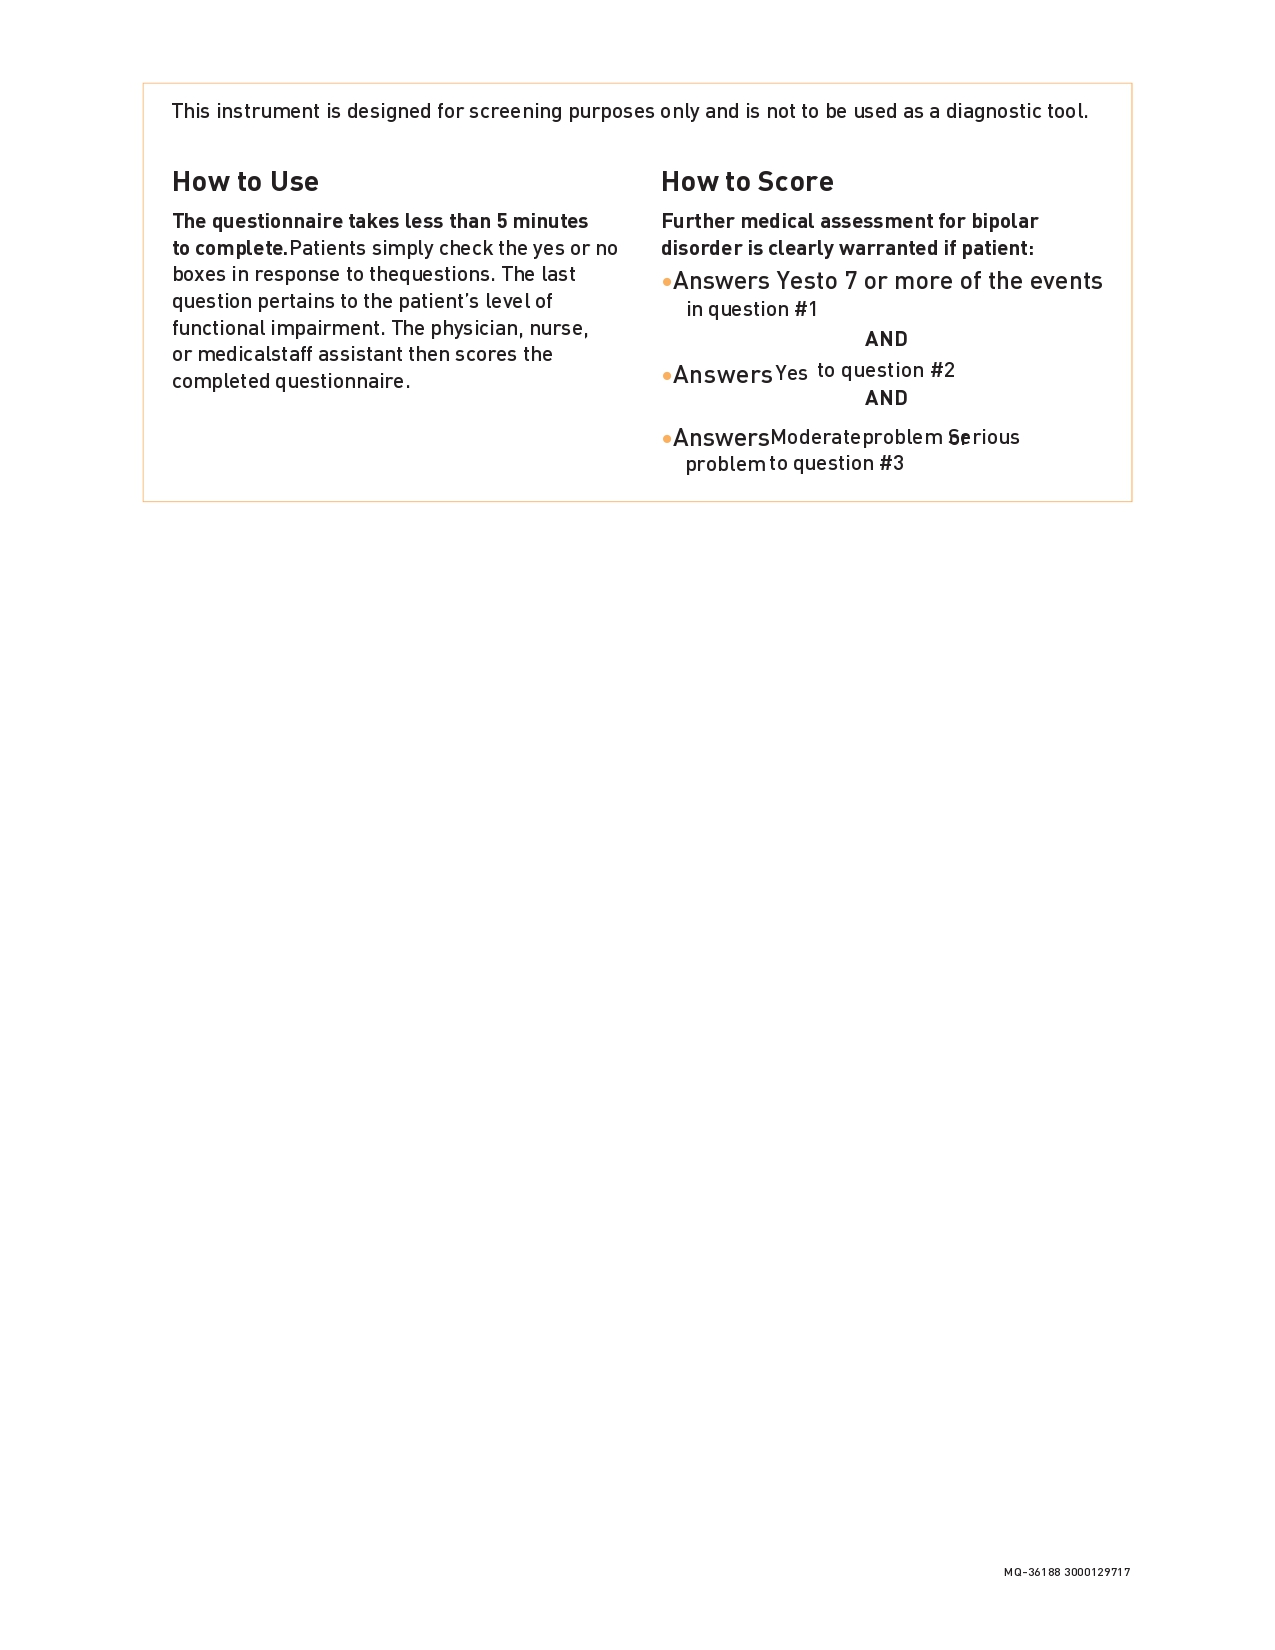
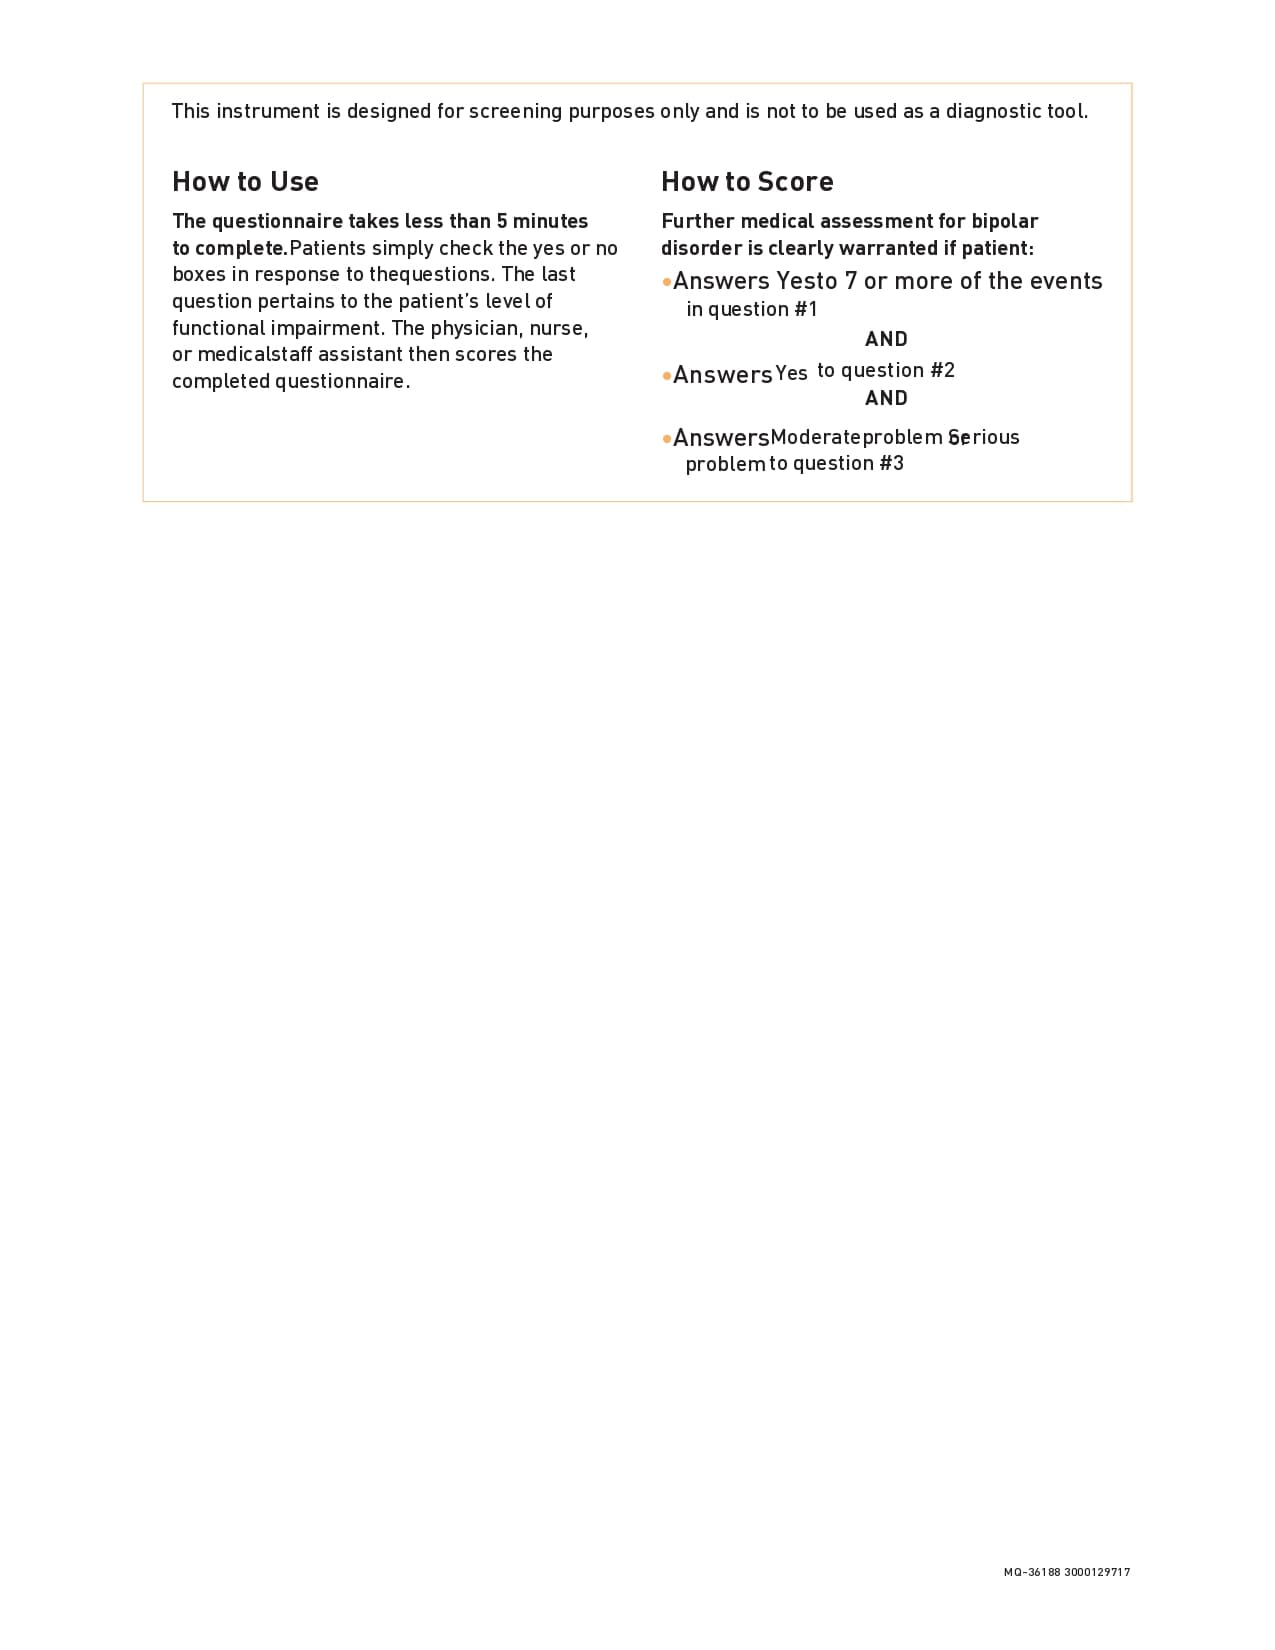
compress Pdf size

diff --git a/app/health-history/HealthHistoryImageMapper.js b/app/health-history/HealthHistoryImageMapper.js
@@ -368,8 +368,8 @@ export default function HealthHistoryImageMapper({ answers, silentMode = false, 
 
     const bg1 = new window.Image();
     const bg2 = new window.Image();
-    bg1.src = "/patient-health-history-page-1.png";
-    bg2.src = "/patient-health-history-page-2.png";
+    bg1.src = "/patient-health-history-page-1.jpg";
+    bg2.src = "/patient-health-history-page-2.jpg";
 
     let loaded = 0;
     const onBothLoaded = () => {
@@ -399,26 +399,17 @@ export default function HealthHistoryImageMapper({ answers, silentMode = false, 
 
     bg1.onload = onBothLoaded;
     bg2.onload = onBothLoaded;
-    bg1.onerror = () => { ctx1.fillStyle="#fff"; ctx1.fillRect(0,0,P1W,P1H); ctx1.fillStyle="#374151"; ctx1.font="bold 28px Arial"; ctx1.fillText("⚠ Place patient-health-history-page-1.png in /public",40,80); drawPage1(ctx1,answers); setStatus("ready"); };
-    bg2.onerror = () => { ctx2.fillStyle="#fff"; ctx2.fillRect(0,0,P2W,P2H); ctx2.fillStyle="#374151"; ctx2.font="bold 28px Arial"; ctx2.fillText("⚠ Place patient-health-history-page-2.png in /public",40,80); drawPage2(ctx2,answers); setStatus("ready"); };
+    bg1.onerror = () => { ctx1.fillStyle="#fff"; ctx1.fillRect(0,0,P1W,P1H); ctx1.fillStyle="#374151"; ctx1.font="bold 28px Arial"; ctx1.fillText("⚠ Place patient-health-history-page-1.jpg in /public",40,80); drawPage1(ctx1,answers); setStatus("ready"); };
+    bg2.onerror = () => { ctx2.fillStyle="#fff"; ctx2.fillRect(0,0,P2W,P2H); ctx2.fillStyle="#374151"; ctx2.font="bold 28px Arial"; ctx2.fillText("⚠ Place patient-health-history-page-2.jpg in /public",40,80); drawPage2(ctx2,answers); setStatus("ready"); };
   }, [answers]);
 
   const refCallback1 = useCallback(node => { if (node) { canvas1Ref.current = node; drawBothPages(); } }, [drawBothPages]);
   const refCallback2 = useCallback(node => { if (node) { canvas2Ref.current = node; } }, []);
 
   // ── PDF ───────────────────────────────────────────────────────────────────
-  const loadJsPDF = () => new Promise((resolve, reject) => {
-    if (window.jspdf) { resolve(window.jspdf.jsPDF); return; }
-    const s = document.createElement("script");
-    s.src = "https://cdnjs.cloudflare.com/ajax/libs/jspdf/2.5.1/jspdf.umd.min.js";
-    s.onload = () => resolve(window.jspdf.jsPDF);
-    s.onerror = () => reject(new Error("Failed to load jsPDF"));
-    document.head.appendChild(s);
-  });
-
   const buildPdf = async () => {
-    const JsPDF = await loadJsPDF();
-    const pdf   = new JsPDF({ orientation: "portrait", unit: "mm", format: "a4" });
+    const { jsPDF } = await import("jspdf");
+    const pdf   = new jsPDF({ orientation: "portrait", unit: "mm", format: "a4" });
     const img1  = canvas1Ref.current?.toDataURL("image/jpeg", 1.0);
     const img2  = canvas2Ref.current?.toDataURL("image/jpeg", 1.0);
     if (img1) pdf.addImage(img1, "JPEG", 0, 0, 210, 297);

diff --git a/app/phq9/PHQ9ImageMapper.js b/app/phq9/PHQ9ImageMapper.js
@@ -2,7 +2,7 @@
 
 // ─────────────────────────────────────────────────────────────────────────────
 // PHQ9ImageMapper.js
-// Background: Patient-Health-Questionnaire-PHQ-9.png (assumed ~1700×2244)
+// Background: Patient-Health-Questionnaire-PHQ-9.jpg (assumed ~1700×2244)
 //
 // Q1–Q9: 4 options each [Not at all, Several days, More than half, Nearly every day]
 // Q coords provided — draws checkmark only (no border)
@@ -25,7 +25,7 @@ import { QUESTIONS, OPTIONS, DIFFICULTY_OPTIONS } from "./phq9Steps";
 
 const CANVAS_W = 1809;
 const CANVAS_H = 2352;
-const BG_SRC   = "/Patient-Health-Questionnaire-PHQ-9.png";
+const BG_SRC   = "/Patient-Health-Questionnaire-PHQ-9.jpg";
 const BRAND    = "#7d4f50";
 
 // Q1–Q9 option x positions: [Not at all, Several days, More than half, Nearly every day]

diff --git a/app/gad7/GAD7ImageMapper.js b/app/gad7/GAD7ImageMapper.js
@@ -3,7 +3,7 @@
 // ─────────────────────────────────────────────────────────────────────────────
 // GAD7ImageMapper.js
 //
-// Renders answers onto /public/gad-7-anxiety.png background, exports PDF.
+// Renders answers onto /public/gad-7-anxiety.jpg background, exports PDF.
 // Background: 1581 × 2244 px (assumed — adjust if different)
 //
 // Coordinate map (provided):
@@ -20,7 +20,7 @@ import { QUESTIONS, OPTIONS, DIFFICULTY_OPTIONS } from "./gad7Steps";
 
 const CANVAS_W = 1581;
 const CANVAS_H = 2244;
-const BG_SRC   = "/gad-7-anxiety.png";
+const BG_SRC   = "/gad-7-anxiety.jpg";
 const FONT     = "500 28px Arial, sans-serif";
 const BRAND    = "#7d4f50";
 const CHECK_SZ = 26; // checkbox square size

diff --git a/app/intake/IntakeImageMapper.js b/app/intake/IntakeImageMapper.js
@@ -101,7 +101,7 @@ export default function IntakeImageMapper({ answers, silentMode = false, onPdfRe
     ctx.scale(SCALE, SCALE);
 
     const bg = new window.Image();
-    bg.src = "/intake-bg.png";
+    bg.src = "/intake-bg.jpg";
 
     bg.onload = () => {
       ctx.drawImage(bg, 0, 0, CANVAS_W, CANVAS_H);
@@ -183,7 +183,7 @@ export default function IntakeImageMapper({ answers, silentMode = false, onPdfRe
       ctx.fillText("New Patient Intake Form", 40, 60);
       ctx.fillStyle = "#ef4444";
       ctx.font = "11px Arial";
-      ctx.fillText("⚠ Place intake-bg.png in /public to see the form background.", 40, 90);
+      ctx.fillText("⚠ Place intake-bg.jpg in /public to see the form background.", 40, 90);
       ctx.fillStyle = "#374151";
       ctx.font = "10px Arial";
       let y = 130;

diff --git a/app/asrs/ASRSImageMapper.js b/app/asrs/ASRSImageMapper.js
@@ -110,8 +110,8 @@ export default function ASRSImageMapper({ answers, silentMode, onPdfReady }) {
 
     bg1.onload = tryBuild;
     bg2.onload = tryBuild;
-    bg1.src = "/Adult-ADHD-Self-Report-Scale-Page-1.png";
-    bg2.src = "/Adult-ADHD-Self-Report-Scale-Page-2.png";
+    bg1.src = "/Adult-ADHD-Self-Report-Scale-Page-1.jpg";
+    bg2.src = "/Adult-ADHD-Self-Report-Scale-Page-2.jpg";
   }, [answers]);
 
   const canvasStyle = silentMode

diff --git a/app/brown-scales/BrownImageMapper.js b/app/brown-scales/BrownImageMapper.js
@@ -222,8 +222,8 @@ export default function BrownImageMapper({ answers, silentMode, onPdfReady }) {
 
     bg1.onload = tryBuild;
     bg2.onload = tryBuild;
-    bg1.src = "/brown-executive-scale-1.png";
-    bg2.src = "/brown-executive-scale-2.png";
+    bg1.src = "/brown-executive-scale-1.jpg";
+    bg2.src = "/brown-executive-scale-2.jpg";
   }, [answers]);
 
   const hidden  = { display:"block", width:"1px", height:"1px" };

diff --git a/app/hipaa-intake/HIPAAImageMapper.js b/app/hipaa-intake/HIPAAImageMapper.js
@@ -118,7 +118,7 @@ export default function HIPAAImageMapper({ answers, silentMode, onPdfReady }) {
       }
     };
 
-    bg.src = "/HIPAA_Compliance_Patient_Consent_Form.png";
+    bg.src = "/HIPAA_Compliance_Patient_Consent_Form.";
   }, []);  // Run once on mount — answers are captured via closure at mount time
 
   const hidden  = { display:"block", width:"1px", height:"1px" };

diff --git a/app/hipaa/HIPAAImageMapper.js b/app/hipaa/HIPAAImageMapper.js
@@ -118,7 +118,7 @@ export default function HIPAAImageMapper({ answers, silentMode, onPdfReady }) {
       }
     };
 
-    bg.src = "/HIPAA_Compliance_Patient_Consent_Form.png";
+    bg.src = "/HIPAA_Compliance_Patient_Consent_Form.";
   }, []);  // Run once on mount — answers are captured via closure at mount time
 
   const hidden  = { display:"block", width:"1px", height:"1px" };

diff --git a/app/hipaa-intake/CombinedImageMapper.js b/app/hipaa-intake/CombinedImageMapper.js
@@ -152,7 +152,7 @@ function drawHipaaPage(canvas, answers) {
         resolve();
       }
     };
-    bg.src = "/HIPAA_Compliance_Patient_Consent_Form.png";
+    bg.src = "/HIPAA_Compliance_Patient_Consent_Form.jpg";
   });
 }
 
